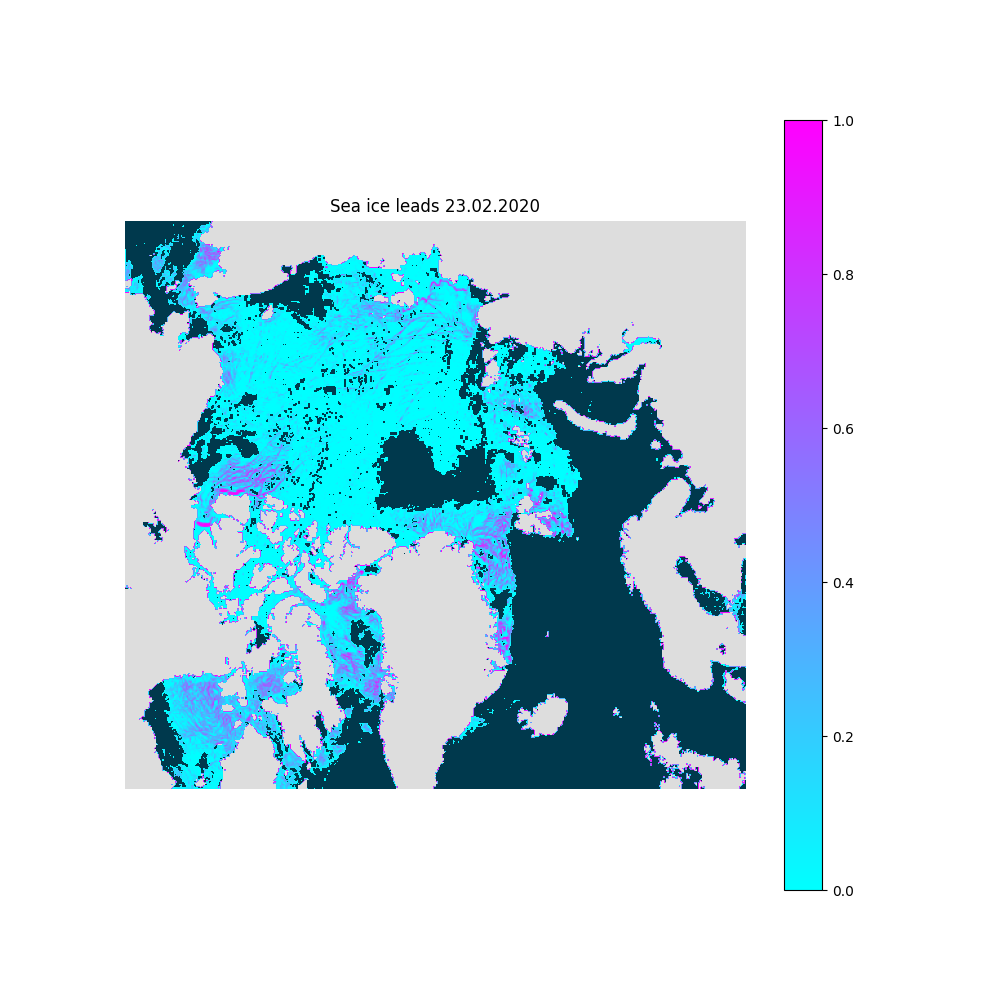
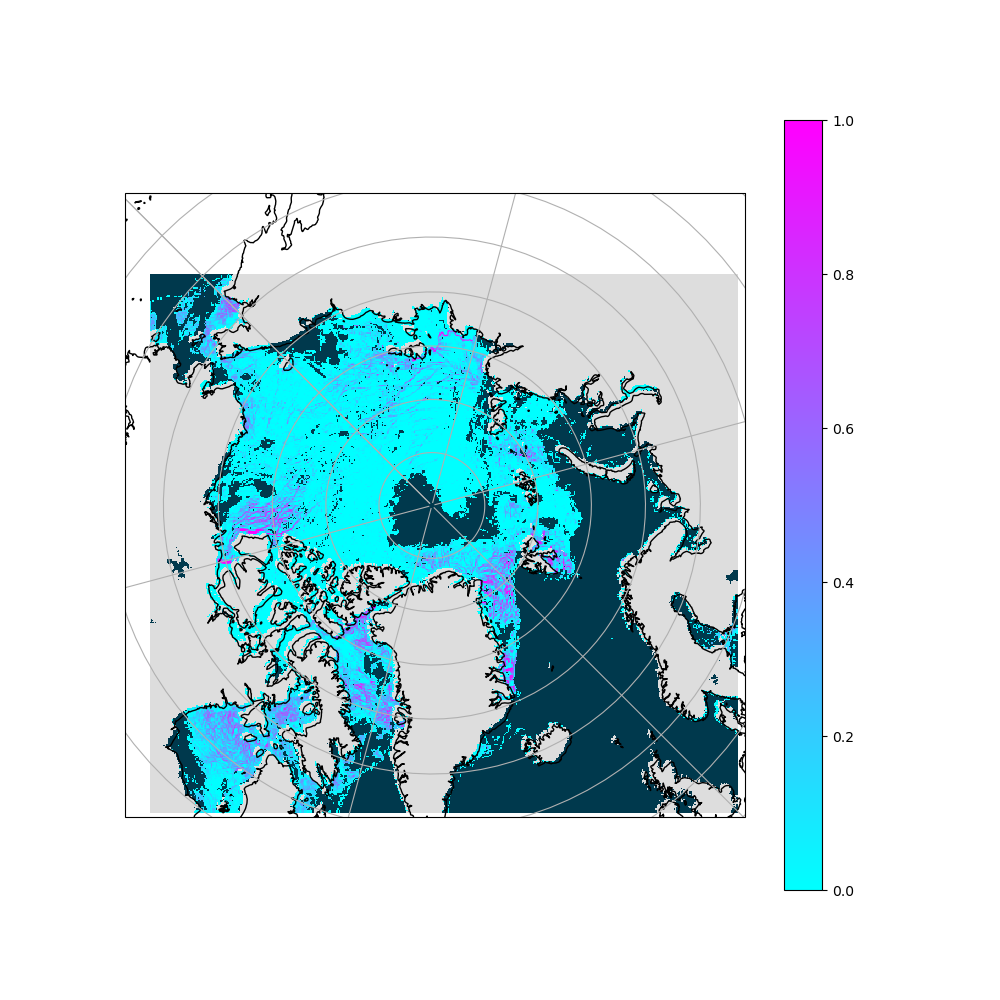
Regional plot works fine. Problem occurred with NorthPolarStereo. Since data is not centered around the North Pole.

Changed region(s): [[0.124, 0.186, 0.744, 0.837]]

diff --git a/plot.py b/plot.py
@@ -1,23 +1,39 @@
 import matplotlib.pyplot as plt
 import cartopy.crs as ccrs
-import numpy as np
 import leads
 
-extent = [-50, 120, 60, 90]
-ax = plt.axes(projection=ccrs.NorthPolarStereo(0))
-ax.set_extent(extent, crs=ccrs.PlateCarree())
-ax.gridlines()
-ax.set_global()
-ax.coastlines(resolution='50m')
 
-grid = leads.CoordinateGrid()
-date = '20200217'
-lead = leads.Lead(date)
-lead.clear_matrix()
-grid.clear_grid(lead.del_row, lead.del_col)
-print(grid.lon.shape, grid.lat.shape, lead.lead_frac.shape)
-print(type(lead.lead_frac))
-# np.random.rand(441, 481)
-ax.contourf(grid.lon, grid.lat, lead.lead_frac, cmap='RdYlBu', transform=ccrs.PlateCarree())
+def regional_lead_plot(date, extent=None, file_name=None, show=False):
+    if not file_name:
+        file_name = f'./plots/{date}.png'
 
-plt.show()
+    # setup data
+    grid = leads.CoordinateGrid()
+    lead = leads.Lead(date)
+    lead.clear_matrix()
+    grid.clear_grid(lead.del_row, lead.del_col)
+
+    # create figure and base map
+    fig, ax = plt.subplots(figsize=(10, 10))
+    ax = plt.axes(projection=ccrs.NorthPolarStereo(-45))
+    ax.gridlines()
+    ax.set_global()
+    ax.coastlines(resolution='50m')
+    extent = extent if extent else (-180.0, 180.0, 61, 90)
+    ax.set_extent(extent, crs=ccrs.PlateCarree())
+
+    # plot data with color-bar
+    im = ax.pcolormesh(grid.lon, grid.lat, lead.lead_frac, cmap='cool', transform=ccrs.PlateCarree())
+    im.cmap.set_over('#dddddd')
+    im.cmap.set_under('#00394d')
+    im.set_clim(0, 1)
+    fig.colorbar(im, ax=ax)
+
+    if show:
+        plt.show()
+    plt.savefig(file_name)
+    plt.close(fig)
+
+
+if __name__ == '__main__':
+    pass
